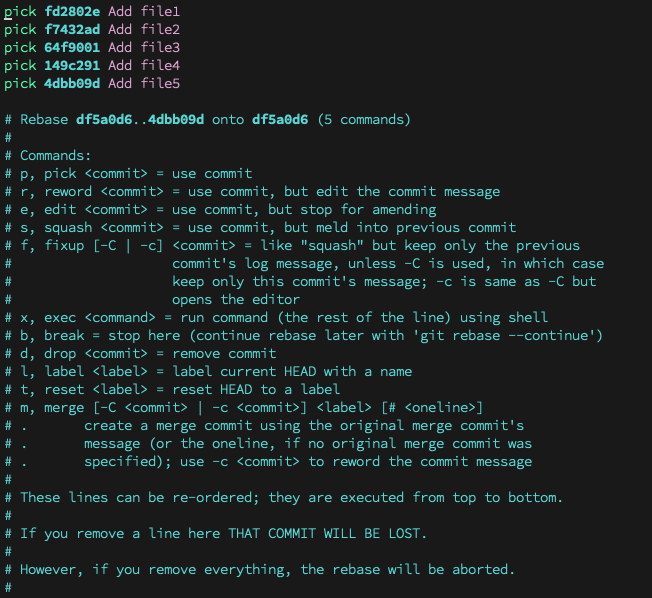
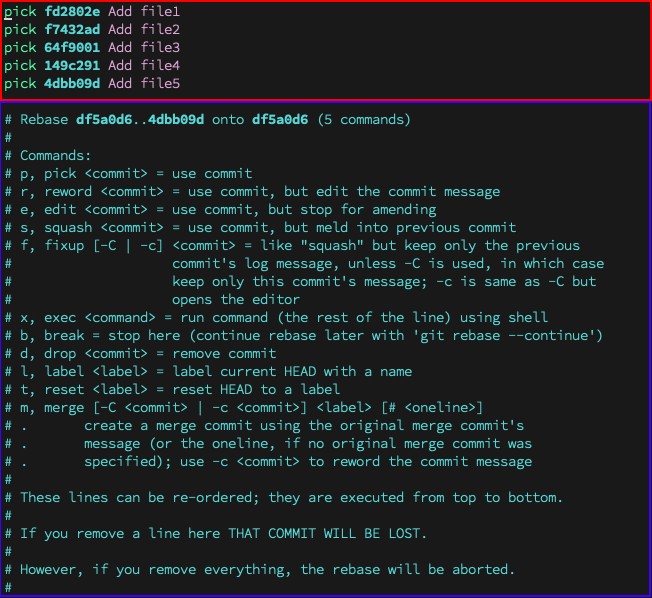
Update post

Changed region(s): [[0.0, 0.0, 1.0, 1.0]]

diff --git a/content/posts/git-rebase/index.md b/content/posts/git-rebase/index.md
@@ -1,65 +1,120 @@
 ---
-title: "Introduction to Git Rebase"
-date: 2022-09-08T22:19:41+02:00
-draft: true
+title: "Introduction and Demonstration to Git Rebase"
+date: 2022-09-16T00:48:00+02:00
+lastmod: 2022-09-16T00:48:00+02:00
+draft: false
+tags: ["git", "demo"]
+featuredImagePreview: "images/git-sketched-social-logo-outline.png"
 ---
 
-[Git rebase](https://git-scm.com/docs/git-rebase) is a powerful command that lets us reapply commits on top of another commit or branch. It is a very useful command for both collaborating with others and developing our own project. As a developer myself, I experienced the situation that forgetting to commit in a minimum size when I was working in a flow. Besides, sometimes I wrote unreadable commit messages just because I wanted to try some thoughts out rapidly.
+[Git rebase](https://git-scm.com/docs/git-rebase) is a powerful command that lets us reapply commits on top of another commit or branch. It is a very useful command for both collaborating with others and developing our own project. We all know it is a good practice to keep a commit within reasonable size and readable for either code review or for later reference. However, as a developer myself, I often make mistakes when I am too focus on the coding flow to pay attention to follow displine.
 
-We all know it is a good practice to make commits reasonable size and readable no matter for code review or for future reference. As a result, rebasing could be a final step before sending a merge request. I am sharing some manipulations that I often apply in my daily work.
+Therefore, I would like to share with you some git rebase commands that I use everyday to keep my code away from chaos.
 
-## Overview of Interactive Mode
-Here is a [demo repo](https://github.com/adelinewei/git-rebase-demo) created for demo purpose. You can clone it and try it out by yourself for a better understanding.
-The demo repo contains six commits, including an initial commit and five commits adding file 1, file 2, ..., file 5 in order. The original git graph looks like this: ![git-rebase-origin](images/git-rebase-00.png)
-We would like to rebase based on the initial commit in interactive mode, so we can write down `git rebase -i df5a0d6`.
+## Demostration and Explanation
+### A Quick View on the Demo Material
+Here is a [demo repo](https://github.com/adelinewei/git-rebase-demo) created for the demo purpose. You can clone it and try it out by yourself for a better understanding.
+
+The demo repo is consisted of five files (file 1, file 2, ... file 5), pushed one by one in order.
+
+Git history visualization of the demo repo:
+![git-rebase-origin](images/git-rebase-00.png)
+
+Today, I am going to share how to `reorder`, `reword`, `delete` and `squash` commits.
+
+### Interactive Mode GUI
+To start interactive rebasing, run this command `git rebase -i df5a0d6`.
+{{< admonition type=note title="Note" open=true >}}
+`git rebase -i [commit|branch]` \
+-i, --interactive: let the user edit the list of commits to rebase \
+[commit|branch]: the base commit or branch to reapply on
+{{< /admonition >}}
+
 
 ![git-rebase-interactive-mode](images/git-rebase-00-process-01.png)
 
-As you can see in the interactive mode, it shows commit history. The earliest commit is on the top, and the latest commit is at the bottom of the view. Below the commit history, it comes explanation of commands that can be used along with rebasing.
+The picture above shows the information we will see when entering interactive mode.
 
-Today, we are going to talk about how to "reorder", "reword", "delete" and "squash" commits.  
+{{< style "strong{color:#FF0000;}" >}} Information inside **red** rectangle indicates the commits history. The top line is the earliest commit, and the line at bottom is the latest commit. {{< /style >}}
 
-## Usage of Commands
+{{< style "strong{color:#0000FF;}" >}} Text inside **blue** rectangle usually contains the explanation of commands or the status of rebasing. Text is commented out, which means the result of rebasing will not be affected by the content. {{< /style >}} 
+
+## Command Usages
 ### Reorder commits
 ![Git rebase: reorder commit history](images/git-rebase-01-process-01.png)
 
-Let's try to move "Add file2" after "Add file5".  
-In this view, just simply cut the line of commit "Add file2" and paste it above "Add file5" since we mentioned that the upper commit the newer commit. Then, save this change and exit the view, by doing "esc :wq" since I am using a vim editor.
+This example is to move commit `Add file2` after `Add file5`. We can achieve that by,
+1. Simply cut the line of commit `Add file2` and paste it below commit `Add file5`,
+2. Save the change and exit the view
+
+![Git rebase: One-line log after reordering commit history](images/git-rebase-s-log-01.png)
+
+Above one-line log shows the reapplied commit history. Now `Add file2` becomes the newest commit.
+
 ![Git rebase: graph of reordering commit history](images/git-rebase-01.png)
 
-*TODO: Get a small commit history after the change applied.*
+*TODO: Correct commit hash*
 
+From the git visualization above, we found that there is no commit being removed. Instead, a new path with a couple of new commits has been generated. A tag **main** is pointing to the latest commit of the new path, which is `Add file2`. Another tag **ORIG_HEAD** is pointing to the previous status, so we can reset to the previous status anytime by running `git reset --hard ORIG_HEAD`.
+
+{{< admonition type=note title="Note" open=true >}}
+**Save and exit a file** \
+`esc` + `:wq` for editors such as Vi or Vim \
+`ctrl` + `x` + `Enter` for editor such as nano
+{{< /admonition >}}
 ### Reword commits
+This example is to reword the message of commit `Add file3` to `Edit file3`. In order to achieve that,
+
+1.Replace command **pick** for the commit to **reword**, save and exit it
+
 ![Git rebase: reword step 1](images/git-rebase-02-process-01.png)
 
+2.Unreword message will show up
 ![Git rebase: reword step 2](images/git-rebase-02-process-02.png)
 
+3.Edit the message to whatever we want (i.e., "Edit file3"), save and exit it
 ![Git rebase: reword step 3](images/git-rebase-02-process-03.png)
 
 ![Git rebase: graph of rewording commit message](images/git-rebase-02.png)
-We change from "pick" to "reword". It shows up this view when you save and exit current view.  
+
+The git visualization above shows that a new path has been created, and the commit message `Edit file3` is included in the new path where tag **main** is pointing to. As we mentioned before, resetting to the previous status is applicable.
 
 ### Delete commits
+This example is to delete commits in two cases. One is to delete continous last two commits. Another is to delete noncontinous arbitrary commits.
+
+**Case 1: delete continous last two commits** \
+Replace **pick** to **drop** for both `Add file4` and `Add file5`, save and exit it.
+
 ![Git rebase: delete case 1](images/git-rebase-03-process-01.png)
 
-![Git rebase: graph of deletion case 1](images/git-rebase-03.png)
+![Git rebase: graph of deletion case 1](images/git-rebase-03.png) \
+From the git visualization we can see that tag **main** moved to `Add file3`, which is the latest commits after the deletion. Tag **ORIG_HEAD** is as usual pointing to the previous status.
 
-Here we will see two cases. The first one we are deleting the last two commits. Now the main tag is pointing to xxx, and the ORIG_HEAD is pointing to the last commit from the previous status. The second case is demonstrating the case when we delete "Add file3" and "Add file4". There will be new commits generated.
-
+**Case 2: delete noncontinous arbitrary commits** \
+Replace **pick** to **drop** for both `Add file3` and `Add file5`, save and exit it.
 ![Git rebase: delete case 2](images/git-rebase-04-process-01.png)
 
-![Git rebase: graph of deletion case 2](images/git-rebase-04.png)
+![Git rebase: graph of deletion case 2](images/git-rebase-04.png) \
+From the git visualization we can see that a new path has been created since the deletion is neither applying continous nor the last two commit. The new path contains only four commits sinsce two commits have been removed. Tag **main** is pointing to commit `Add file4` on the new path. Tag **ORIG_HEAD** keeps the previous status by pointing to the latest commit on the original path.
 
 ### Squash commits
+This example is to merge commits together. The command **squash** will use the applied commit, but meld into the previous commit.
+
+For example, if we replace **pick** with **squash** on commit `Add file4`, the information of commit `Add file4` will be taken care of at the same time when the rebasing arrives the stage where commit `Add file3` is.
+
+1.Replace **pick** with **squash**, save and exit it.
 ![Git rebase: squash step 1](images/git-rebase-05-process-01.png)
 
+2.1. Keep an explanatory message, save and exit it.
 ![Git rebase: squash step 2](images/git-rebase-05-process-02.png)
 
+2.2. Or remove unwanted messages and compose a new one.
 ![Git rebase: squash step 3](images/git-rebase-05-process-03.png)
 
-We are going to combine/merge two or more commits together.
-
-![Git rebase: graph of squashing](images/git-rebase-05.png)
+![Git rebase: graph of squashing](images/git-rebase-05.png) \
+Git visualization shows that a new path has been created which contains the merged commit `Add file3,4`. Tag **main** is pointing to the new path and tag **ORIG_HEAD** is pointing to the previous status.
 
 ## Epilogue
-Although we were manipulating on main branch, this is just a demonstration. Please remember that never modify public history. Do rebasing on your own branch, and merge it to main branch. Hope you find something interesting, don't hesitation to give me any feedback.
+That was basically all I want to share with you regarding the basic rebasing manipulation. Another thing to mention here is that although we manipulate commands on the main branch, it is only for an easier demonstration. Please keep in mind that **never** do it for public history. The good practice would be manipulating within your own branch, and merge it to the main branch.
+
+Hope you find something interesting, and I appreciate all your feedback!

diff --git a/content/posts/my-first-post.md b/content/posts/my-first-post.md
@@ -1,7 +1,7 @@
 ---
 title: "My First Post"
 date: 2022-09-04T12:31:35+02:00
-draft: false
+draft: true
 ---
 
 **This is a test article, will be removed.**
